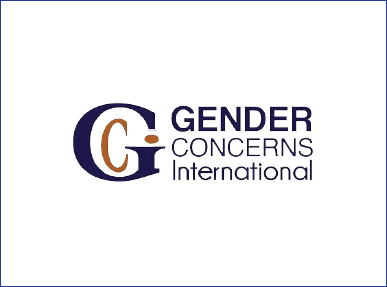
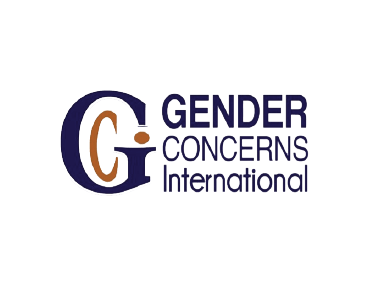
wip

Changed region(s): [[0.155, 0.3066, 0.8062, 0.6969], [0.0, 0.0, 1.0, 1.0]]

diff --git a/app/Livewire/Pages/Partners.php b/app/Livewire/Pages/Partners.php
@@ -29,14 +29,14 @@ class Partners extends Component
                 'url' => 'https://expertforum.ro/en/',
             ],
             [
+                'name' => 'Gender Concerns International',
+                'logo' => 'Gender-Concerns-International.png',
+                'url' => 'https://www.genderconcerns.org/',
+            ],
+            [
                 'name' => 'Institute for Public Environment Development (IPED)',
                 'logo' => 'IPED.png',
                 'url' => 'https://iped.bg/en/',
-            ],
-            [
-                'name' => 'Committee for the Defence of Democracy (CDD)',
-                'logo' => 'KOD.png',
-                'url' => 'https://ruchkod.pl/',
             ],
             [
                 'name' => 'Inter Alia',
@@ -44,9 +44,9 @@ class Partners extends Component
                 'url' => 'https://interaliaproject.com/',
             ],
             [
-                'name' => 'Gender Concerns International',
-                'logo' => 'Gender-Concerns-International.png',
-                'url' => 'https://www.genderconcerns.org/',
+                'name' => 'Committee for the Defence of Democracy (CDD)',
+                'logo' => 'KOD.png',
+                'url' => 'https://ruchkod.pl/',
             ],
         ];
     }
@@ -59,8 +59,21 @@ class Partners extends Component
                 // 'title' => 'Electoral expert',
                 'avatar' => 'placeholder.jpg',
                 'links' => [
-                    'ri-facebook-fill' => '#',
-                    'ri-twitter-x-fill' => '#',
+                    [
+                        'icon' => 'ri-linkedin-fill',
+                        'url' => '#',
+                        'title' => 'LinkedIn',
+                    ],
+                    [
+                        'icon' => 'ri-facebook-fill',
+                        'url' => '#',
+                        'title' => 'Facebook',
+                    ],
+                    [
+                        'icon' => 'ri-twitter-x-fill',
+                        'url' => '#',
+                        'title' => 'Twitter',
+                    ],
                 ],
             ],
             [

diff --git a/resources/views/components/partners/expert.blade.php b/resources/views/components/partners/expert.blade.php
@@ -1,13 +1,15 @@
 @props(['name' => null, 'title' => null, 'avatar' => null, 'links' => []])
 
 <div class="relative flex flex-col gap-4">
-    <img src="{{ Vite::asset('resources/images/experts/' . $avatar) }}" alt="{{ $name }}"
-        class="w-full overflow-hidden rounded-lg shadow-lg aspect-square" />
+    <div class="flex items-center justify-center overflow-hidden shadow-lg aspect-square">
+        <img src="{{ Vite::asset('resources/images/experts/' . $avatar) }}" alt="{{ $name }}"
+            class="object-contain" />
+    </div>
 
     <div>
-        <h3 class="text-lg font-semibold text-gray-900 md:text-xl">
+        <h2 class="text-lg font-semibold text-gray-900 md:text-xl">
             {{ $name }}
-        </h3>
+        </h2>
 
         <p class="text-sm font-medium text-gray-500">
             {{ $title }}
@@ -16,9 +18,13 @@
 
     @if (filled($links))
         <div class="flex gap-3">
-            @foreach ($links as $icon => $link)
-                <a href="{{ $link }}" target="_blank" rel="noopener noreferer" class="hover:opacity-60">
-                    <x-dynamic-component :component="$icon" class="w-5 h-5" />
+            @foreach ($links as $link)
+                <a href="{{ $link['url'] }}"
+                    title={{ $link['title'] }}
+                    target="_blank"
+                    rel="noopener noreferer"
+                    class="hover:opacity-60">
+                    <x-dynamic-component :component="$link['icon']" class="w-5 h-5" />
                 </a>
             @endforeach
         </div>

diff --git a/resources/views/components/partners/institution.blade.php b/resources/views/components/partners/institution.blade.php
@@ -13,27 +13,20 @@
 @endphp
 
 <{{ $tag }}
-    {{ $attributes->class([
-            'relative flex aspect-square items-center justify-center p-6 sm:p-4 md:p-8 group',
-            'border border-primary-800',
-        ])->merge([
-            'href' => $url,
-            'target' => $target,
-            'rel' => $rel,
-        ]) }}>
-
-    <img src="{{ Vite::asset('resources/images/partners/' . $logo) }}" alt="{{ $name }}" class="object-contain" />
+    {{ $attributes->class(['relative flex flex-col gap-4 group focus:outline-none'])->merge([
+        'href' => $url,
+        'target' => $target,
+        'rel' => $rel,
+    ]) }}>
 
     <div
-        @class([
-            'absolute inset-0 flex items-center justify-center',
-            'font-bold text-xl sm:text-lg md:text-2xl lg:text-3xl',
-            'text-white bg-primary-800',
-            'p-6 sm:p-4 md:p-8',
-            'opacity-0 group-hover:opacity-100 group-focus:opacity-100',
-            'transition-opacity duration-300 ease-in-out',
-        ])>
-        {{ $name }}
+        class="flex items-center justify-center p-6 overflow-hidden shadow sm:p-4 md:p-8 aspect-square ring-1 ring-primary-800">
+        <img src="{{ Vite::asset('resources/images/partners/' . $logo) }}" alt="{{ $name }}"
+            class="object-contain" />
     </div>
+
+    <h2 class="text-lg font-semibold text-gray-900 md:text-xl group-hover:underline group-focus:underline">
+        {{ $name }}
+    </h2>
 
     </{{ $tag }}>
